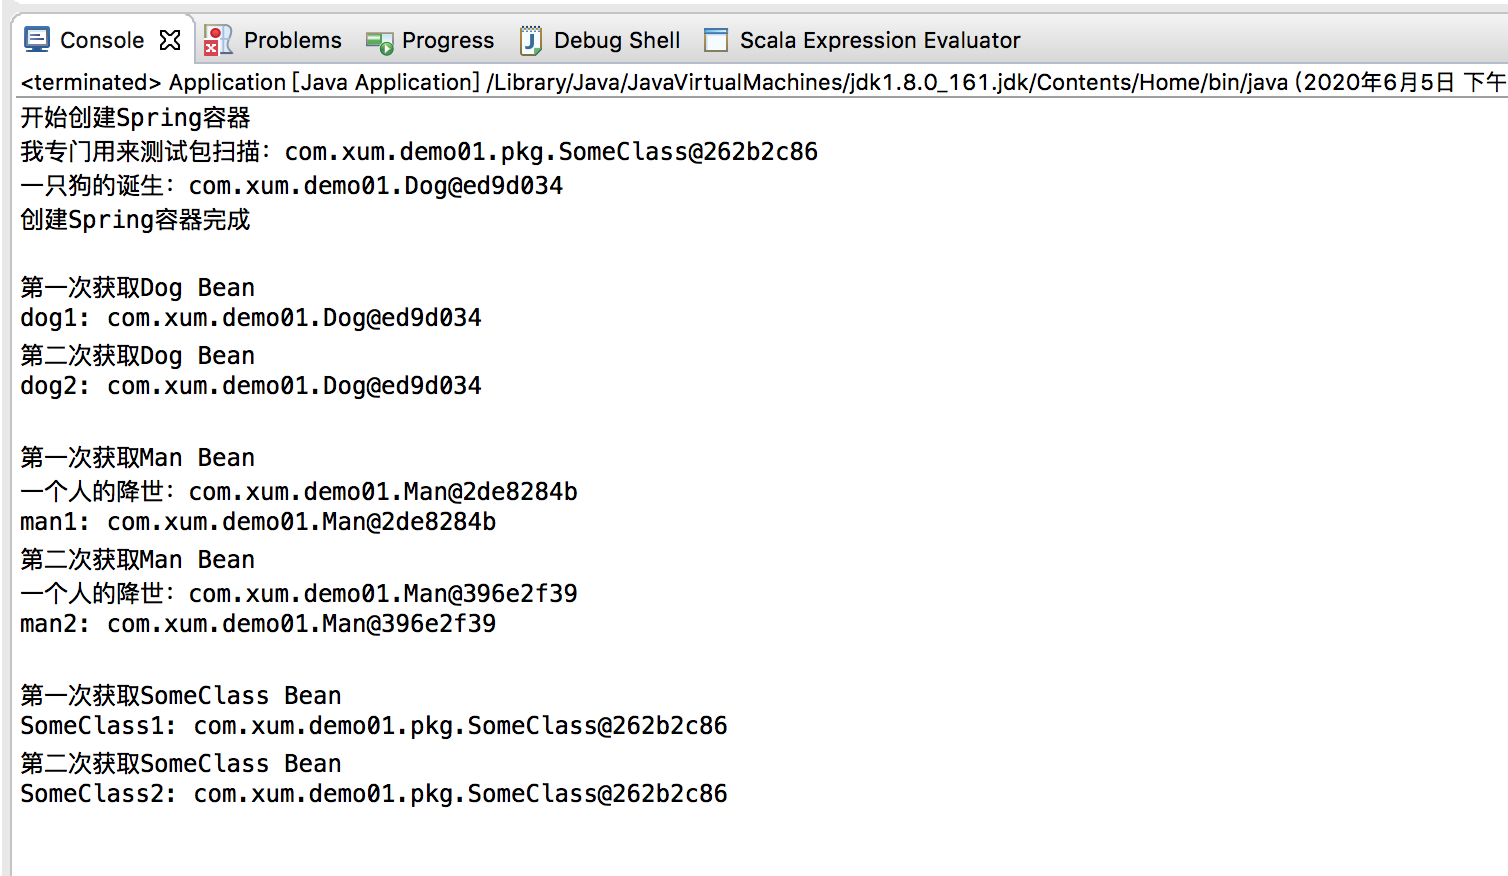
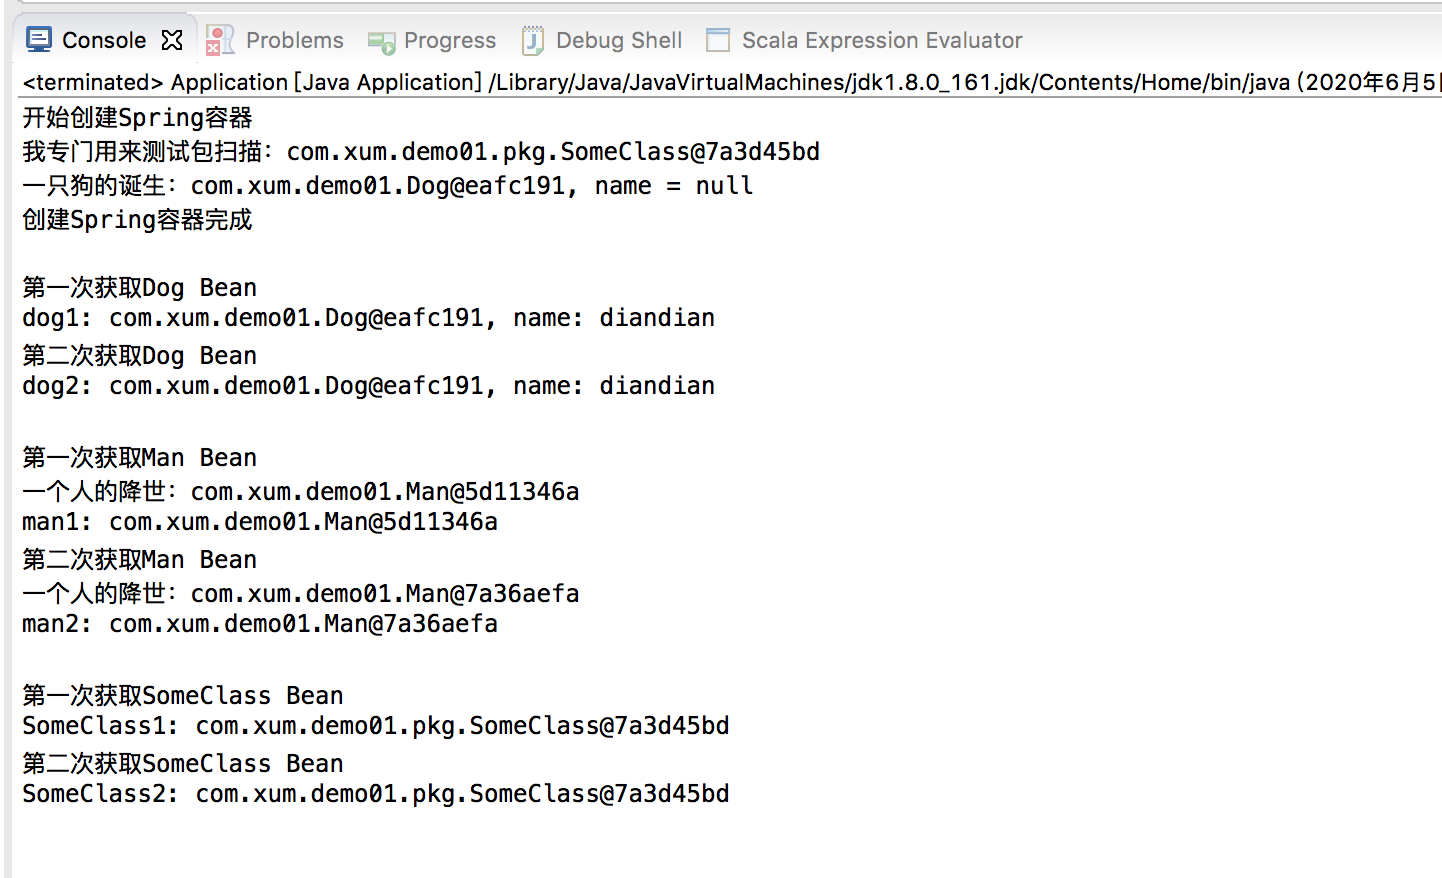
Spring Xml注入

diff --git a/_posts/2020-06-03-spring-config-20200603.md b/_posts/2020-06-03-spring-config-20200603.md
@@ -72,13 +72,16 @@ tags: java spring bean 设计模式 工厂模式 IoC DI 反转依赖 SpringBoot 
 	<context:component-scan base-package="com.xum.demo01.pkg"/>
 	
 	<!-- 指定具体的Bean，默认的scope就是singleton：单例 -->
-	<bean id="dog" class="com.xum.demo01.Dog" scope="singleton"></bean>
+	<bean id="dog" class="com.xum.demo01.Dog" scope="singleton">
+		<!-- 设置属性值 -->
+		<property name="name" value="diandian"></property>
+	</bean>
 	
 	<!-- 指定具体的Bean，设置scope为prototype -->
 	<bean id="man" class="com.xum.demo01.Man" scope="prototype"></bean>
 	
 	<!-- Spring2.0以后，增加了session、request、global session三种专用于Web应用程序上下文的Bean -->
-	<!-- 这里暂时不做演示 -->
+	<!-- 这里暂不演示 -->
 </beans>
 ```
 
@@ -91,9 +94,21 @@ package com.xum.demo01;
 
 public class Dog 
 {
+	private String name;
+	
 	public Dog()
 	{
-		System.out.println("一只狗的诞生：" + this);
+		System.out.println("一只狗的诞生：" + this + ", name = " + name);
+	}
+
+	public String getName() 
+	{
+		return name;
+	}
+
+	public void setName(String name) 
+	{
+		this.name = name;
 	}
 }
 ```
@@ -107,6 +122,7 @@ public class Man
 {
 	public Man()
 	{
+		// 看这个输入什么时候执行可以看到这个Bean 什么时候被创建
 		System.out.println("一个人的降世：" + this);
 	}
 }
@@ -153,11 +169,11 @@ public class Application
 		// dog是单例，所以这里面多次获取这个Bean，其实是一个，可以看打印的地址是相同的
 		System.out.println("第一次获取Dog Bean");
 		Dog dog1 = (Dog)applicationContext.getBean("dog");
-		System.out.println("dog1: " + dog1);
+		System.out.println("dog1: " + dog1 + ", name: " + dog1.getName());
 		
 		System.out.println("第二次获取Dog Bean");
 		Dog dog2 = (Dog)applicationContext.getBean("dog");
-		System.out.println("dog2: " + dog2);
+		System.out.println("dog2: " + dog2 + ", name: " + dog2.getName());
 		System.out.println("");
 		
 		// man是多例，所以这里面多次获取这个Bean，每次都会创建一个，地址不同
@@ -197,6 +213,10 @@ public class Application
 ## 使用注解的方式
 
 现在基本上很少使用配置文件的方式注入Bean 了，所以关于其如何工作的、配置规则，这里我不会再赘述，多说一下现在用的更多的使用注解的方式注入Bean
+
+
+## Eclipse用法
+
 
 ## 参考资料
 
